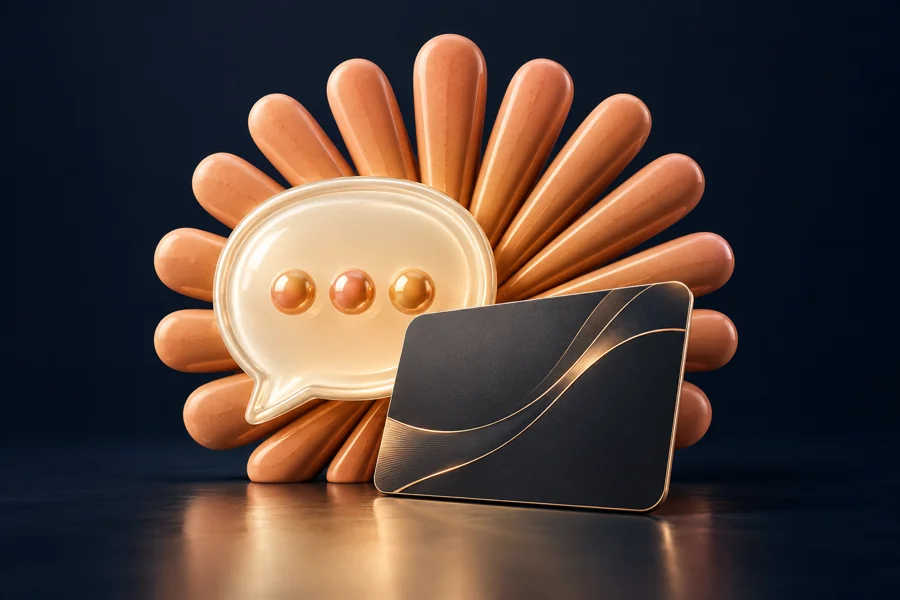
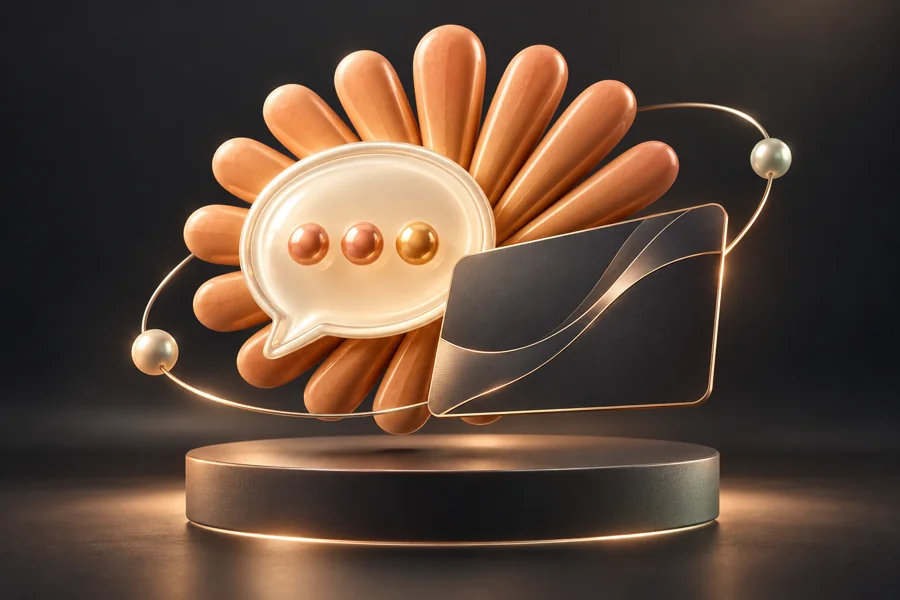
Refine graphite night theme and support separate product photos per theme

diff --git a/static/retail.css b/static/retail.css
@@ -1,5 +1,5 @@
 :root[data-theme="light"]{--shop-bg:#f5f6f8;--shop-surface:#fff;--shop-soft:#f0f3f5;--shop-text:#152630;--shop-muted:#657784;--shop-border:#e2e7eb;--shop-accent:#087e8b;--shop-accent-soft:#e1f2f2;--shop-button-text:#fff;--shop-shadow:0 10px 35px #15374008}
-:root[data-theme="dark"]{--shop-bg:#10171e;--shop-surface:#17232c;--shop-soft:#1d2d37;--shop-text:#e9f2f5;--shop-muted:#a0b1be;--shop-border:#2c3e49;--shop-accent:#4bc5ce;--shop-accent-soft:#163b44;--shop-button-text:#0c252d;--shop-shadow:0 10px 35px #0002}
+:root[data-theme="dark"]{--shop-bg:#18191b;--shop-surface:#222426;--shop-soft:#2a2d2f;--shop-text:#f1f0ec;--shop-muted:#b0b4b5;--shop-border:#393d3e;--shop-accent:#9bd4c5;--shop-accent-soft:#293d38;--shop-button-text:#162d26;--shop-shadow:0 12px 36px #00000018}
 :root[data-theme] body.retail-site{background:var(--shop-bg);color:var(--shop-text)}
 .retail-wrap{max-width:1360px;margin-inline:auto;padding-inline:28px}
 .visually-hidden{position:absolute!important;clip:rect(0,0,0,0);width:1px;height:1px;overflow:hidden;white-space:nowrap}
@@ -149,4 +149,33 @@
 @media(max-width:1100px){.header-main{grid-template-columns:175px minmax(200px,1fr) auto;gap:24px}.shop-actions{gap:13px}.shop-brand strong{font-size:24px}.header-bottom nav{gap:20px}.header-support{display:none}.category-tiles>a{padding:10px 12px;gap:8px;font-size:10px}.slide-copy{padding-inline:35px}.retail-site .cards.retail-four{gap:12px}.shop-footer-grid{gap:25px}}
 @media(max-width:760px){.retail-wrap{padding-inline:18px}.announcement>.retail-wrap{min-height:34px;gap:12px}.announcement-label{font-size:14px;padding-left:12px}.announcement>.retail-wrap>span:nth-child(2){font-size:8px}.announcement a{display:none}.header-main{grid-template-columns:1fr auto;gap:16px;padding-block:15px}.shop-brand{gap:8px}.shop-brand>img{width:39px;height:39px}.shop-brand strong{font-size:23px}.shop-brand small{font-size:8px}.shop-actions{gap:13px}.wallet-entry{display:none}.account-entry>.ui-icon{width:21px;height:23px}.account-entry span{display:none}.header-search{grid-column:1/-1;order:3;padding-block:3px;border-radius:12px}.header-search>button{padding:7px 19px;border-radius:9px}.header-bottom{padding-bottom:12px;gap:16px}.category-menu{min-width:0;flex-shrink:0}.category-menu summary{padding:9px 11px;gap:8px;font-size:9px}.category-menu summary .ui-icon{width:15px;height:15px}.header-bottom nav{gap:19px;overflow-x:auto;white-space:nowrap;font-size:9px;scrollbar-width:none}.header-bottom nav a{padding-block:8px}.header-support{display:none}.home-retail{padding-top:15px;padding-bottom:20px}.shop-carousel{border-radius:20px}.shop-slide{height:310px}.shop-slide img{width:100%;opacity:.5;mask-image:linear-gradient(90deg,#000 25%,transparent)}.shop-slide::after{background:linear-gradient(270deg,var(--shop-surface) 7%,transparent 100%)}.slide-copy{padding:27px 24px;width:78%}.slide-copy h1,.slide-copy h2{font-size:28px;line-height:1.65}.slide-copy p{max-width:240px}.slide-kicker{font-size:9px}.slide-wordmark{left:16px;top:auto;bottom:20px;font-size:6px;max-width:90px}.slide-wordmark b{font-size:8px}.carousel-controls{bottom:11px}.retail-section{padding-top:28px}.retail-section-title{margin-bottom:14px;gap:10px}.retail-section-title>div{gap:10px}.section-icon{width:34px;height:34px;border-radius:10px}.section-icon .ui-icon{width:17px}.retail-section-title h2{font-size:18px}.retail-section-title>div>div>span{font-size:8px}.retail-section-title>a{font-size:9px}.category-tiles{grid-template-columns:repeat(3,1fr);gap:8px}.category-tiles>a{font-size:9px;padding:9px 11px;gap:8px}.category-monogram{width:27px;height:27px;border-radius:8px;font-size:19px;flex-shrink:0}.retail-shelf{grid-template-columns:minmax(0,1fr);padding:11px;margin-top:26px;border-radius:21px}.shelf-heading{flex-direction:row;gap:13px;padding:0 3px 10px;justify-content:flex-start;text-align:right}.shelf-heading>span{width:35px;height:35px;border-radius:11px;margin:0;flex-shrink:0}.shelf-heading>span .ui-icon{width:20px;height:20px}.shelf-heading h2{font-size:15px;line-height:1.7;white-space:nowrap;margin:0}.shelf-heading h2 br{display:none}.shelf-heading p{display:none}.shelf-heading>a{margin-right:auto;font-size:9px;white-space:nowrap}.shelf-arrows{display:none}.product-rail{grid-auto-columns:205px;gap:10px}.retail-site .cards.retail-four{grid-template-columns:repeat(2,minmax(0,1fr));gap:12px}.retail-site .ai-showcase{grid-template-columns:1fr;gap:13px}.retail-site .ai-brand-image{aspect-ratio:2.2/1}.retail-site .ai-brand-copy{padding:17px 21px}.retail-collection-note{font-size:9px;line-height:2.2}.retail-banner-pair{grid-template-columns:1fr;gap:13px;margin-top:25px}.retail-banner-pair .collection-banner{min-height:220px}.retail-banner-pair .collection-banner>div{padding:23px 27px}.retail-banner-pair .collection-banner h2{font-size:24px}.retail-site .photo-post{height:180px}.faq-section{grid-template-columns:1fr;gap:20px;margin-top:0}.faq-section>div>h2{font-size:23px;margin-top:10px}.faq-list details{padding:12px 15px}.faq-list summary{font-size:11px}.service-promises{grid-template-columns:1fr 1fr;gap:22px 13px;padding-block:23px}.service-promises>div{justify-content:flex-start;gap:10px}.service-promises .ui-icon{width:24px;height:24px}.service-promises strong{font-size:10px}.service-promises small{font-size:8px}.footer-support-banner{padding:15px 18px;font-size:10px;gap:10px;flex-wrap:wrap;margin-bottom:27px}.footer-support-banner>div{gap:9px}.footer-support-banner .ui-icon{width:18px}.footer-chat-open{padding:5px 11px;font-size:9px}.shop-footer-grid{grid-template-columns:repeat(2,1fr);gap:25px;padding-bottom:25px}.footer-brand{grid-column:1/-1}.shop-footer-grid h3{font-size:11px;margin-bottom:12px}.shop-copyright{font-size:8px;flex-wrap:wrap;justify-content:center;text-align:center;padding-bottom:85px}.shop-footer .shop-brand strong{font-size:23px}}
 @media(max-width:390px){.retail-site .cards.retail-four{grid-template-columns:1fr}.slide-copy{width:92%}.category-tiles>a{padding:8px;gap:5px;font-size:8px}.category-monogram{width:23px;height:23px;font-size:17px}.retail-section-title h2{font-size:16px}.account-entry>.ui-icon{width:20px}.shop-actions{gap:11px}.shop-brand strong{font-size:21px}}
+/* Neutral evening palette shared by the shop, checkout and customer panel. */
+:root[data-theme] .retail-site :is(.panel,.auth-panel,.account-nav,.stat,.message){background:var(--shop-surface);border-color:var(--shop-border);box-shadow:var(--shop-shadow)}
+:root[data-theme] .retail-site :is(p,.muted,.empty,.auth-lines,.specs dt,.stat small,.ticket-row small,.message time,.price small){color:var(--shop-muted)}
+:root[data-theme] .retail-site :is(.prose,.prose h2,.prose p,.specs dd,label,td,.message p,.account-nav>a){color:var(--shop-text)}
+:root[data-theme] .retail-site :is(th,td,.ticket-row,.account-nav form,.catalog-intro img){border-color:var(--shop-border)}
+:root[data-theme] .retail-site :is(.price,.stat a,.primary-stat strong,.auth-panel a,.pagination a){color:var(--shop-accent)}
+:root[data-theme] .retail-site :is(.primary-stat,.staff-message,.notice:not(.error)){background:var(--shop-accent-soft);border-color:var(--shop-border);color:var(--shop-text)}
+:root[data-theme] .retail-site :is(input,textarea,select){background:var(--shop-soft);border-color:var(--shop-border);color:var(--shop-text);accent-color:var(--shop-accent)}
+:root[data-theme] .retail-site :is(input,textarea)::placeholder{color:var(--shop-muted);opacity:1}
+:root[data-theme] .retail-site :is(a,button,input,textarea,select):focus-visible{outline-color:var(--shop-accent)}
+:root[data-theme] .retail-site :is(.outline-button,.search button){background:var(--shop-soft);color:var(--shop-text);border-color:var(--shop-border)}
+:root[data-theme] .retail-site .tabs a{color:var(--shop-muted)}
+:root[data-theme] .retail-site :is(.tabs a.active,.account-nav>a:hover){background:var(--shop-accent-soft);color:var(--shop-accent);box-shadow:none}
+:root[data-theme="dark"] .announcement{background:#263c37;color:#dbece5;border-bottom:1px solid #3a5149}
+:root[data-theme="dark"] .announcement::before{opacity:.055}
+:root[data-theme="dark"] .retail-site .announcement a{background:#ffffff08;color:#dbece5;border-color:#ffffff18}
+:root[data-theme="dark"] .header-search>button{background:#384b44;color:#ecf3ef}
+:root[data-theme="dark"] .shop-header{background:#1f2123}
+:root[data-theme="dark"] .shop-carousel{box-shadow:0 18px 50px #00000020}
+:root[data-theme="dark"] .retail-site :is(.product-card,.ai-brand-card,.post-card){box-shadow:0 8px 24px #00000010}
+:root[data-theme="dark"] .retail-site :is(.product-card,.ai-brand-card,.post-card):hover{border-color:#66857a;box-shadow:0 14px 35px #00000025}
+:root[data-theme="dark"] .retail-site .collection-banner:after{background:linear-gradient(270deg,#222426f5,#222426b0 50%,#22242608)}
+:root[data-theme="dark"] .retail-site .collection-banner :is(h2,.eyebrow){color:var(--shop-text)}
+:root[data-theme="dark"] .retail-site .banner-link{color:var(--shop-accent)}
+:root[data-theme="dark"] .shop-footer{background:#141617;border-top:1px solid var(--shop-border)}
+:root[data-theme="dark"] .footer-support-banner{background:#252c2a;border:1px solid #35433d}
+:root[data-theme="dark"] .footer-chat-open{color:#bddcd0;border-color:#587366}
+:root[data-theme="dark"] .shop-footer-grid>div>a:not(.shop-brand),:root[data-theme="dark"] .retail-site .shop-footer p{color:#aeb9b4}
+:root[data-theme="dark"] .shop-copyright{color:#a0aaa5;border-color:#35413a}
 @media(prefers-reduced-motion:reduce){.category-tiles>a{transition:none}}

diff --git a/templates/product.html b/templates/product.html
@@ -1,1 +1,1 @@
-{% extends 'base.html' %}{% load storefront %}{% block storefront_assets %}{% include 'partials/storefront_assets.html' %}{% endblock %}{% block content %}<section class="wrap page-head"><a class="muted" href="/services/">خدمات / {{ product.get_platform_display }}</a><h1>{{ product.name }}</h1></section><section class="wrap section compact detail-grid"><article class="panel prose">{% product_image product as cover %}{% product_image product 'light' as cover_light %}<picture class="theme-picture"><source data-theme-light srcset="{{ cover_light }}" media="not all"><img class="product-detail-image" src="{{ cover }}" alt="{% if product.visual.alt_text %}{{ product.visual.alt_text }}{% else %}{{ product.name }}{% endif %}" width="900" height="600" fetchpriority="high"></picture><span class="chip {{ product.platform }}">{{ product.get_platform_display }}</span><h2>درباره این خدمت</h2>{{ product|storefront_description|linebreaks }}{% if product.target_prompt %}<div class="notice">{{ product.target_prompt }}</div>{% endif %}<dl class="specs"><dt>حداقل سفارش</dt><dd>{{ product.min_order }} عدد</dd><dt>حداکثر سفارش</dt><dd>{{ product.max_order|default:'طبق شرایط محصول' }}</dd><dt>مقصد سفارش</dt><dd>{% if product.need_link %}لینک یا شناسه الزامی است{% else %}طبق توضیحات محصول{% endif %}</dd></dl></article><aside class="panel order-panel"><span class="eyebrow">ثبت سفارش</span><div class="price">{% if pack_price %}{{ pack_price }} <small>تومان / {{ product.price_per }} {% if product.platform == 'ai' %}اشتراک{% else %}عدد{% endif %}</small>{% else %}<small>قیمت نیازمند بررسی پشتیبانی است</small>{% endif %}</div><form method="post">{% csrf_token %}{{ form.as_p }}<label class="check"><input type="checkbox" required> <span><a href="/terms/">قوانین سفارش</a> را مطالعه کردهام.</span></label><button class="button full" type="submit">بررسی مبلغ و ادامه ←</button></form><p class="muted tiny">قبل از برداشت از کیف پول، مبلغ نهایی نمایش داده میشود.</p></aside></section>{% endblock %}
+{% extends 'base.html' %}{% load storefront %}{% block storefront_assets %}{% include 'partials/storefront_assets.html' %}{% endblock %}{% block content %}<section class="wrap page-head"><a class="muted" href="/services/">خدمات / {{ product.get_platform_display }}</a><h1>{{ product.name }}</h1></section><section class="wrap section compact detail-grid"><article class="panel prose">{% product_image product 'dark' as cover %}{% product_image product 'light' as cover_light %}<picture class="theme-picture"><source data-theme-light srcset="{{ cover_light }}" media="not all"><img class="product-detail-image" src="{{ cover }}" alt="{% if product.visual.alt_text %}{{ product.visual.alt_text }}{% else %}{{ product.name }}{% endif %}" width="900" height="600" fetchpriority="high"></picture><span class="chip {{ product.platform }}">{{ product.get_platform_display }}</span><h2>درباره این خدمت</h2>{{ product|storefront_description|linebreaks }}{% if product.target_prompt %}<div class="notice">{{ product.target_prompt }}</div>{% endif %}<dl class="specs"><dt>حداقل سفارش</dt><dd>{{ product.min_order }} عدد</dd><dt>حداکثر سفارش</dt><dd>{{ product.max_order|default:'طبق شرایط محصول' }}</dd><dt>مقصد سفارش</dt><dd>{% if product.need_link %}لینک یا شناسه الزامی است{% else %}طبق توضیحات محصول{% endif %}</dd></dl></article><aside class="panel order-panel"><span class="eyebrow">ثبت سفارش</span><div class="price">{% if pack_price %}{{ pack_price }} <small>تومان / {{ product.price_per }} {% if product.platform == 'ai' %}اشتراک{% else %}عدد{% endif %}</small>{% else %}<small>قیمت نیازمند بررسی پشتیبانی است</small>{% endif %}</div><form method="post">{% csrf_token %}{{ form.as_p }}<label class="check"><input type="checkbox" required> <span><a href="/terms/">قوانین سفارش</a> را مطالعه کردهام.</span></label><button class="button full" type="submit">بررسی مبلغ و ادامه ←</button></form><p class="muted tiny">قبل از برداشت از کیف پول، مبلغ نهایی نمایش داده میشود.</p></aside></section>{% endblock %}

diff --git a/templates/partials/product_card.html b/templates/partials/product_card.html
@@ -1,1 +1,1 @@
-{% load storefront %}{% product_image product as cover %}{% product_image product 'light' as cover_light %}<article class="product-card" data-store-card><a class="product-cover" href="{{ product.get_absolute_url }}" tabindex="-1" aria-hidden="true"><picture class="theme-picture"><source data-theme-light srcset="{{ cover_light }}" media="not all"><img src="{{ cover }}" alt="" width="600" height="400" loading="lazy" decoding="async"></picture><span class="cover-label">{% if product.platform == 'ai' %}AI MEMBERSHIP{% else %}DIGITAL SERVICES{% endif %}</span></a><div class="card-top"><span class="chip {{ product.platform }}">{{ product.get_platform_display }}</span><span class="product-mark {{ product.platform }}" aria-hidden="true">{% if product.platform == 'rubika' %}ر{% elif product.platform == 'eitaa' %}ا{% elif product.platform == 'ai' %}✦{% else %}ب{% endif %}</span></div><a href="{{ product.get_absolute_url }}"><h3>{{ product.name }}</h3></a><p>{{ product|storefront_description|truncatechars:100 }}</p>{% card_price product as display_price %}<div class="store-price">{% if display_price %}<strong>{{ display_price }}</strong><span>تومان <small>/ {{ product.price_per }} {% if product.platform == 'ai' %}اشتراک{% else %}عدد{% endif %}</small></span>{% else %}<span>استعلام قیمت از پشتیبانی</span>{% endif %}</div><div class="card-bottom"><span>حداقل <b>{{ product.min_order }}</b> {% if product.platform == 'ai' %}اشتراک{% else %}عدد{% endif %}</span><a class="store-buy" href="{{ product.get_absolute_url }}">مشاهده و سفارش <span aria-hidden="true">↗</span></a></div></article>
+{% load storefront %}{% product_image product 'dark' as cover %}{% product_image product 'light' as cover_light %}<article class="product-card" data-store-card><a class="product-cover" href="{{ product.get_absolute_url }}" tabindex="-1" aria-hidden="true"><picture class="theme-picture"><source data-theme-light srcset="{{ cover_light }}" media="not all"><img src="{{ cover }}" alt="" width="600" height="400" loading="lazy" decoding="async"></picture><span class="cover-label">{% if product.platform == 'ai' %}AI MEMBERSHIP{% else %}DIGITAL SERVICES{% endif %}</span></a><div class="card-top"><span class="chip {{ product.platform }}">{{ product.get_platform_display }}</span><span class="product-mark {{ product.platform }}" aria-hidden="true">{% if product.platform == 'rubika' %}ر{% elif product.platform == 'eitaa' %}ا{% elif product.platform == 'ai' %}✦{% else %}ب{% endif %}</span></div><a href="{{ product.get_absolute_url }}"><h3>{{ product.name }}</h3></a><p>{{ product|storefront_description|truncatechars:100 }}</p>{% card_price product as display_price %}<div class="store-price">{% if display_price %}<strong>{{ display_price }}</strong><span>تومان <small>/ {{ product.price_per }} {% if product.platform == 'ai' %}اشتراک{% else %}عدد{% endif %}</small></span>{% else %}<span>استعلام قیمت از پشتیبانی</span>{% endif %}</div><div class="card-bottom"><span>حداقل <b>{{ product.min_order }}</b> {% if product.platform == 'ai' %}اشتراک{% else %}عدد{% endif %}</span><a class="store-buy" href="{{ product.get_absolute_url }}">مشاهده و سفارش <span aria-hidden="true">↗</span></a></div></article>

diff --git a/static/chat.css b/static/chat.css
@@ -2,6 +2,9 @@
 .support-chat{position:fixed;right:24px;bottom:88px;width:365px;max-width:calc(100vw - 32px);height:530px;max-height:calc(100dvh - 114px);z-index:1001;border-radius:20px;background:var(--shop-surface,#fff);color:var(--shop-text,#152630);border:1px solid var(--shop-border,#e2e7eb);box-shadow:0 20px 75px #061f3540;display:flex;flex-direction:column;overflow:hidden}
 .support-chat[hidden]{display:none}
 .chat-header{background:#0b8793;color:#fff;display:flex;align-items:center;gap:11px;padding:16px}
+:root[data-theme="dark"] .chat-header{background:#30483f;color:#f1f0ec}
+:root[data-theme="dark"] .chat-header span{color:#c7d8d0}
+:root[data-theme="dark"] .chat-launcher{box-shadow:0 8px 30px #0003}
 .chat-header img{border-radius:11px}
 .chat-header>div{flex:1}
 .chat-header strong{font-size:13px;display:block;line-height:1.7}

diff --git a/static/theme.js b/static/theme.js
@@ -29,7 +29,7 @@
   function apply(theme) {
     root.dataset.theme = theme;
     const color = document.querySelector('meta[name="theme-color"]');
-    if (color) color.content = theme === 'light' ? '#f7f9f6' : '#0c1320';
+    if (color) color.content = theme === 'light' ? '#f5f6f8' : '#18191b';
     inspect(root);
     document.dispatchEvent(new CustomEvent('dawn:theme-change', { detail: { theme } }));
   }

diff --git a/static/theme.css b/static/theme.css
@@ -1,5 +1,5 @@
 /* The theme sheet is loaded after page assets, including on account and auth pages. */
-html[data-theme="dark"]{color-scheme:dark;background:#0c1320}
+html[data-theme="dark"]{color-scheme:dark;background:#18191b}
 html[data-theme="light"]{color-scheme:light;background:#f7f9f6}
 picture.theme-picture{display:contents}
 .header-actions{display:flex;align-items:center;gap:10px}

diff --git a/portal/tests.py b/portal/tests.py
@@ -106,6 +106,41 @@ class SecurityAndCommerceTests(TransactionTestCase):
             self.assertContains(response,'https://dawnpanel.ir'+url)
             self.assertContains(response,'عکس واقعی محصول')
 
+    def test_product_day_and_night_uploads_are_independent(self):
+        import io,tempfile
+        from PIL import Image
+        from django.core.files.uploadedfile import SimpleUploadedFile
+        from portal.product_media import ProductImageForm,save_product_picture
+        from portal.templatetags.storefront import product_image
+        def upload(color):
+            image=io.BytesIO();Image.new('RGB',(64,64),color).save(image,format='PNG')
+            return SimpleUploadedFile('photo.png',image.getvalue(),content_type='image/png')
+        with tempfile.TemporaryDirectory() as directory,override_settings(MEDIA_ROOT=directory):
+            form=ProductImageForm(files={'picture':upload('white'),'night_picture':upload('black')})
+            # Exercise the same normalization hooks used by admin on both uploads.
+            form.cleaned_data={'picture':form.files['picture'],'night_picture':form.files['night_picture']}
+            day=form.clean_picture();night=form.clean_night_picture()
+            save_product_picture(self.product,Mock(cleaned_data={'picture':day,'night_picture':night,'picture_alt':'محصول'}))
+            day_url=product_image(self.product,'light');night_url=product_image(self.product,'dark')
+            self.assertTrue(day_url.startswith('/media/products/'))
+            self.assertTrue(night_url.startswith('/media/products/'))
+            self.assertNotEqual(day_url,night_url)
+            response=self.client.get(self.product.get_absolute_url())
+            self.assertContains(response,day_url);self.assertContains(response,night_url)
+            save_product_picture(self.product,Mock(cleaned_data={'remove_night_picture':True}))
+            self.assertEqual(product_image(self.product,'light'),day_url)
+            self.assertIn('/artwork/social.webp',product_image(self.product,'dark'))
+            save_product_picture(self.product,Mock(cleaned_data={'remove_picture':True}))
+            self.assertFalse(ProductVisual.objects.filter(product_id=self.product.pk).exists())
+
+    def test_night_upload_rejects_invalid_content(self):
+        from django import forms
+        from django.core.files.uploadedfile import SimpleUploadedFile
+        from portal.product_media import ProductImageForm
+        form=ProductImageForm()
+        form.cleaned_data={'night_picture':SimpleUploadedFile('image.png',b'<svg onload="alert(1)"/>',content_type='image/png')}
+        with self.assertRaises(forms.ValidationError):form.clean_night_picture()
+
     def test_product_admin_accepts_picture_upload(self):
         import io,tempfile
         from PIL import Image
@@ -115,12 +150,16 @@ class SecurityAndCommerceTests(TransactionTestCase):
         data={key:value if value is not None else '' for key,value in model_to_dict(self.product).items()}
         image=io.BytesIO();Image.new('RGB',(64,64),'blue').save(image,format='PNG')
         data.update({'picture':SimpleUploadedFile('picture.png',image.getvalue(),content_type='image/png'),'picture_alt':'تصویر انتخابشده مدیر','_save':'ذخیره'})
+        night=io.BytesIO();Image.new('RGB',(64,64),'black').save(night,format='PNG')
+        data['night_picture']=SimpleUploadedFile('night.png',night.getvalue(),content_type='image/png')
         with tempfile.TemporaryDirectory() as directory,override_settings(MEDIA_ROOT=directory):
             response=self.client.post('/manage/portal/product/'+str(self.product.pk)+'/change/',data)
             self.assertEqual(response.status_code,302)
             visual=ProductVisual.objects.get(product_id=self.product.pk)
             self.assertEqual(visual.alt_text,'تصویر انتخابشده مدیر')
             self.assertTrue(visual.image.storage.exists(visual.image.name))
+            self.assertTrue(visual.night_image.storage.exists(visual.night_image.name))
+            self.assertNotEqual(visual.image.name,visual.night_image.name)
 
     def test_image_upload_rejects_svg_and_oversized_payload(self):
         from django import forms

diff --git a/portal/product_media.py b/portal/product_media.py
@@ -31,7 +31,9 @@ def normalize_product_image(upload):
         raise forms.ValidationError('فایل تصویر معتبر نیست.') from error
 
 class ProductImageForm(forms.ModelForm):
-    picture=forms.FileField(label='آپلود عکس محصول',required=False,help_text='JPG، PNG یا WebP تا ۵ مگابایت؛ تصویر بهینه و بدون اطلاعات اضافی ذخیره میشود.')
+    picture=forms.FileField(label='عکس محصول در حالت روز',required=False,help_text='JPG، PNG یا WebP تا ۵ مگابایت؛ تصویر بهینه و بدون اطلاعات اضافی ذخیره میشود.')
+    night_picture=forms.FileField(label='عکس محصول در حالت شب',required=False,help_text='نسخه جداگانه مخصوص شب؛ بدون این عکس، تصویر شبِ دستهبندی نمایش داده میشود.')
+    remove_night_picture=forms.BooleanField(label='حذف فقط عکس شب',required=False)
     picture_alt=forms.CharField(label='توضیح عکس برای سئو و دسترسپذیری',required=False,max_length=160)
     remove_picture=forms.BooleanField(label='حذف عکس فعلی از محصول',required=False)
     class Meta:
@@ -44,15 +46,23 @@ class ProductImageForm(forms.ModelForm):
     def clean_picture(self):
         upload=self.cleaned_data.get('picture')
         return normalize_product_image(upload) if upload else None
+    def clean_night_picture(self):
+        upload=self.cleaned_data.get('night_picture')
+        return normalize_product_image(upload) if upload else None
 
 def save_product_picture(product,form):
     picture=form.cleaned_data.get('picture')
-    if picture:
-        visual,_=ProductVisual.objects.get_or_create(product_id=product.pk,defaults={'image':''})
-        visual.image=picture
+    night_picture=form.cleaned_data.get('night_picture')
+    if form.cleaned_data.get('remove_picture'):
+        ProductVisual.objects.filter(product_id=product.pk).delete()
+        product.__dict__.pop('_visual_cache',None)
+        return
+    visual=ProductVisual.objects.filter(product_id=product.pk).first()
+    if picture or night_picture or visual:
+        visual=visual or ProductVisual(product_id=product.pk,image='')
+        if picture: visual.image=picture
+        if night_picture: visual.night_image=night_picture
+        elif form.cleaned_data.get('remove_night_picture'): visual.night_image=''
         visual.alt_text=form.cleaned_data.get('picture_alt','')
         visual.save()
-    elif form.cleaned_data.get('remove_picture'):
-        ProductVisual.objects.filter(product_id=product.pk).delete()
-    else:
-        ProductVisual.objects.filter(product_id=product.pk).update(alt_text=form.cleaned_data.get('picture_alt',''))
+    product.__dict__.pop('_visual_cache',None)

diff --git a/portal/admin.py b/portal/admin.py
@@ -16,18 +16,23 @@ class AuditedAdmin(admin.ModelAdmin):
 @admin.register(Product)
 class ProductAdmin(AuditedAdmin):
     form=ProductImageForm
-    readonly_fields=['current_picture']
+    readonly_fields=['current_picture','current_night_picture']
     @admin.display(description='عکس فعلی')
     def current_picture(self,obj):
         if obj and obj.visual and obj.visual.image:
             return format_html('<img src="{}" alt="{}" width="240">',obj.visual.image.url,obj.visual.alt_text or obj.name)
         return 'هنوز عکسی ثبت نشده است.'
+    @admin.display(description='عکس شب فعلی')
+    def current_night_picture(self,obj):
+        if obj and obj.visual and obj.visual.night_image:
+            return format_html('<img src="{}" alt="{}" width="240">',obj.visual.night_image.url,obj.visual.alt_text or obj.name)
+        return 'تصویر شب دستهبندی نمایش داده میشود.'
     def save_model(self,request,obj,form,change):
         super().save_model(request,obj,form,change)
         save_product_picture(obj,form)
     list_display=['name','platform','price','price_per','is_active','show_on_website','show_on_telegram']
     list_filter=['platform','is_active','show_on_website','show_on_telegram','category'];search_fields=['name'];list_per_page=30
-    fields=['category','name','description','current_picture','picture','picture_alt','remove_picture','platform','is_active','show_on_website','show_on_telegram','price','price_currency','price_amount','price_per','product_profit_percent','min_order','max_order','need_link','target_type','target_prompt','seo_description']
+    fields=['category','name','description','current_picture','picture','current_night_picture','night_picture','remove_night_picture','picture_alt','remove_picture','platform','is_active','show_on_website','show_on_telegram','price','price_currency','price_amount','price_per','product_profit_percent','min_order','max_order','need_link','target_type','target_prompt','seo_description']
     def has_delete_permission(self,request,obj=None): return False
 @admin.register(Category)
 class CategoryAdmin(AuditedAdmin):

diff --git a/portal/templatetags/storefront.py b/portal/templatetags/storefront.py
@@ -12,11 +12,12 @@ def card_price(product):
 
 
 @register.simple_tag
-def product_image(product,theme='dark'):
+def product_image(product,theme='light'):
     from django.templatetags.static import static
     visual=product.visual
-    if visual and visual.image:
-        return visual.image.url
+    uploaded=(visual.night_image if theme=='dark' else visual.image) if visual else None
+    if uploaded:
+        return uploaded.url
     if product.platform=='ai':
         name=product.name.casefold()
         kind='gemini' if ('gemini' in name or 'جمینای' in name) else 'claude' if ('claude' in name or 'کلاد' in name or 'کلود' in name) else 'chatgpt' if ('gpt' in name or 'جی پی تی' in name) else 'ai'

diff --git a/portal/migrations/0006_product_night_image.py b/portal/migrations/0006_product_night_image.py
@@ -1,0 +1,18 @@
+# Generated by Django 5.2.18 on 2026-10-21 09:53
+
+from django.db import migrations, models
+
+
+class Migration(migrations.Migration):
+
+    dependencies = [
+        ('portal', '0005_chatconversation_supportpresence_chatmessage'),
+    ]
+
+    operations = [
+        migrations.AddField(
+            model_name='productvisual',
+            name='night_image',
+            field=models.FileField(blank=True, max_length=255, upload_to='products/%Y/%m/', verbose_name='عکس شب محصول'),
+        ),
+    ]

diff --git a/portal/models.py b/portal/models.py
@@ -200,6 +200,7 @@ class ReferralAlias(models.Model):
 class ProductVisual(models.Model):
     product_id=models.PositiveBigIntegerField('شناسه محصول',unique=True)
     image=models.FileField('عکس محصول',upload_to='products/%Y/%m/',max_length=255)
+    night_image=models.FileField('عکس شب محصول',upload_to='products/%Y/%m/',max_length=255,blank=True)
     alt_text=models.CharField('توضیح تصویر',max_length=160,blank=True)
     updated_at=models.DateTimeField(auto_now=True)
     class Meta:
